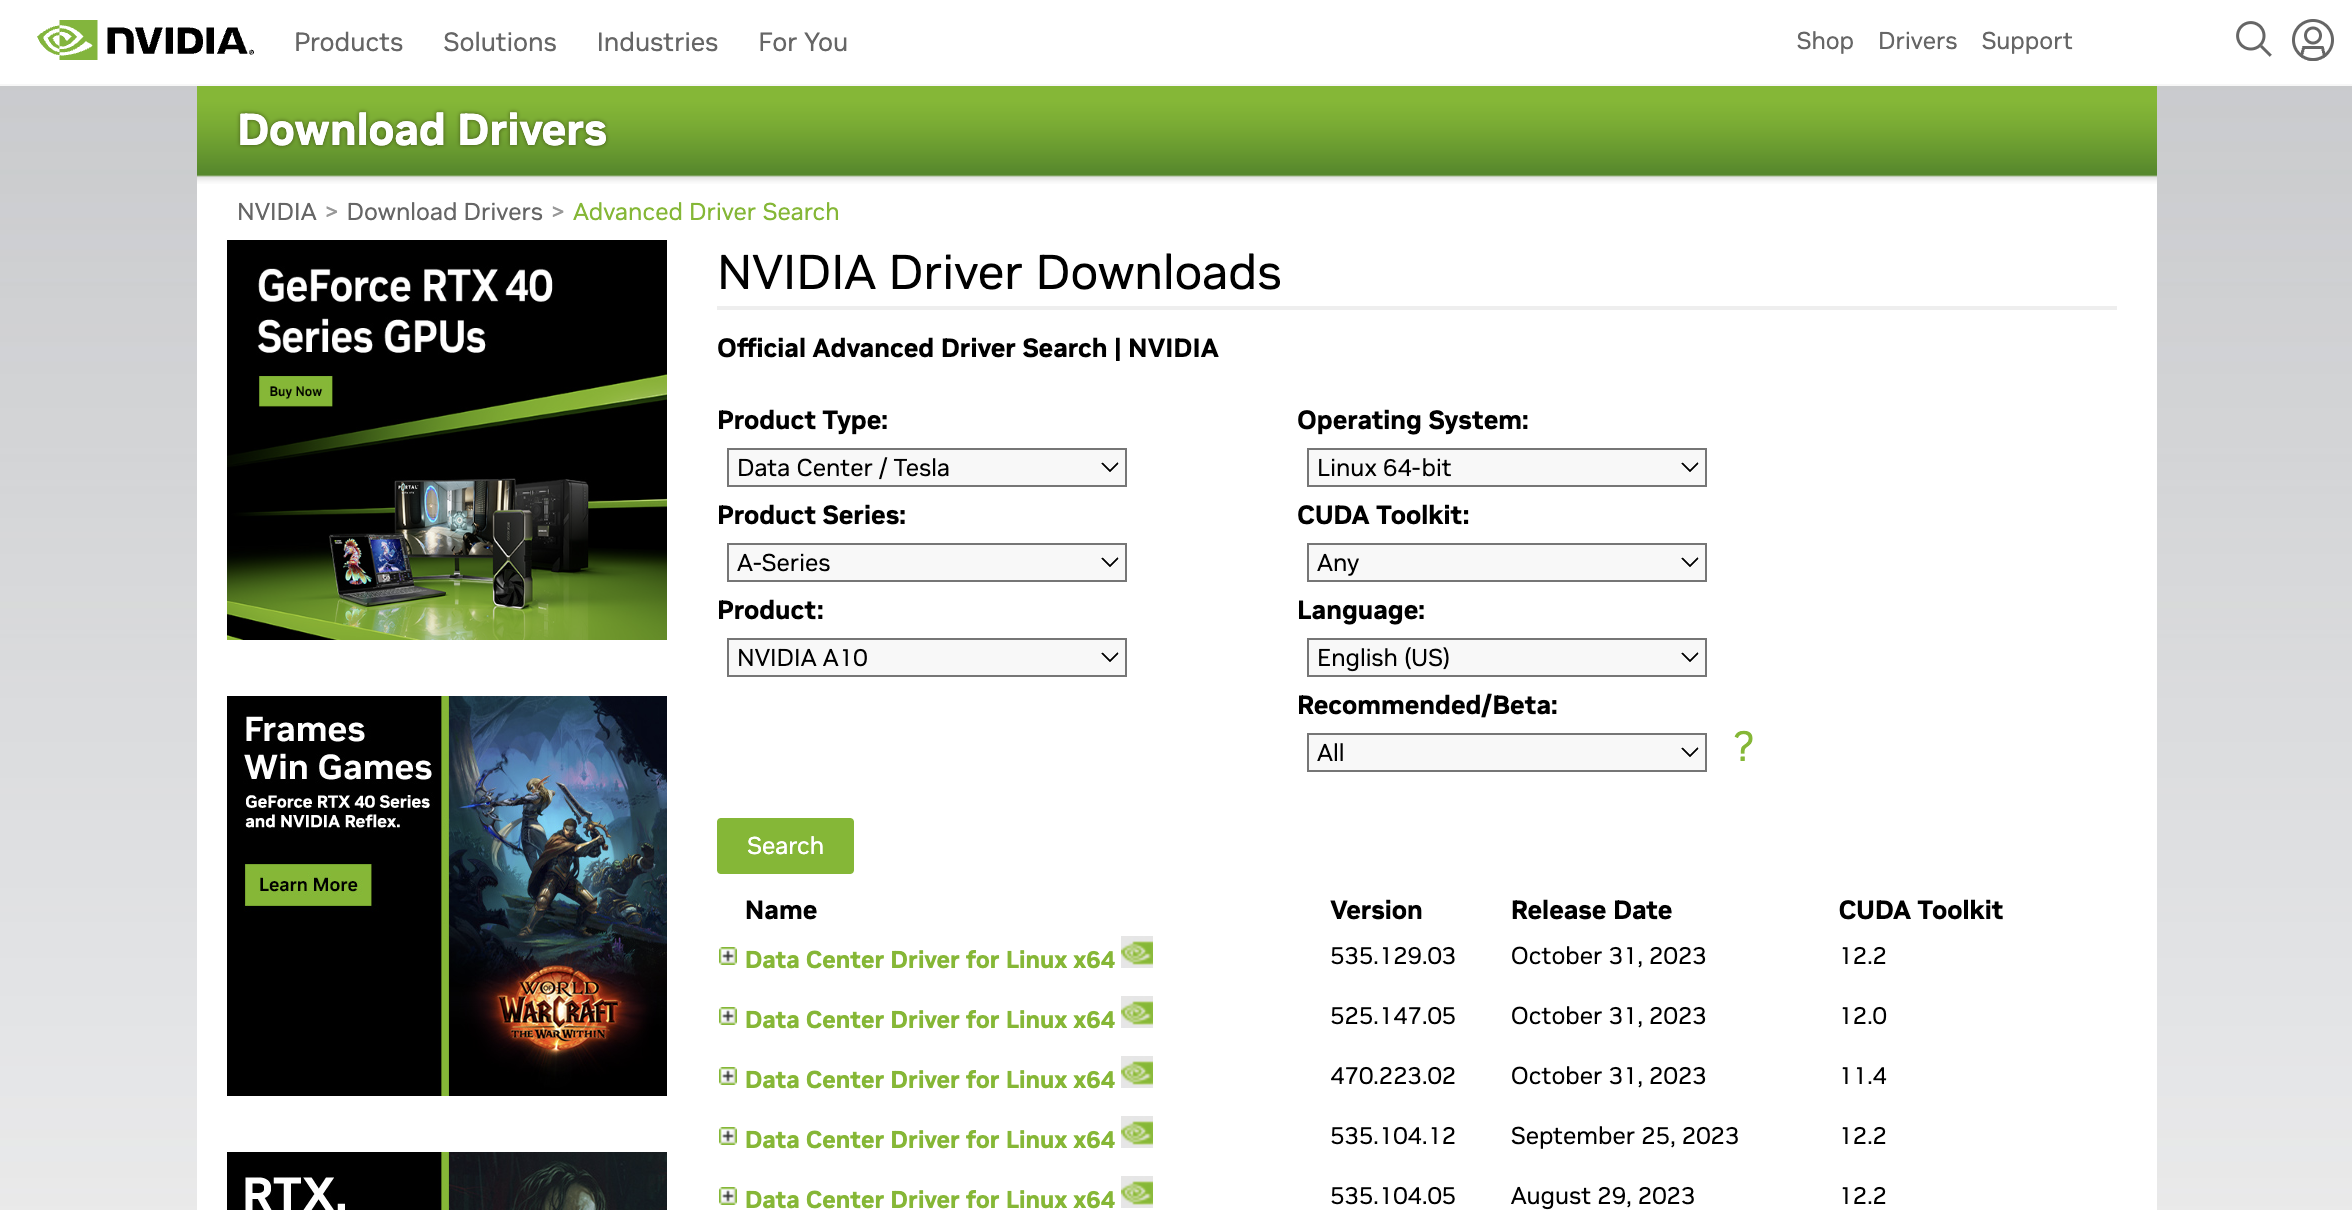
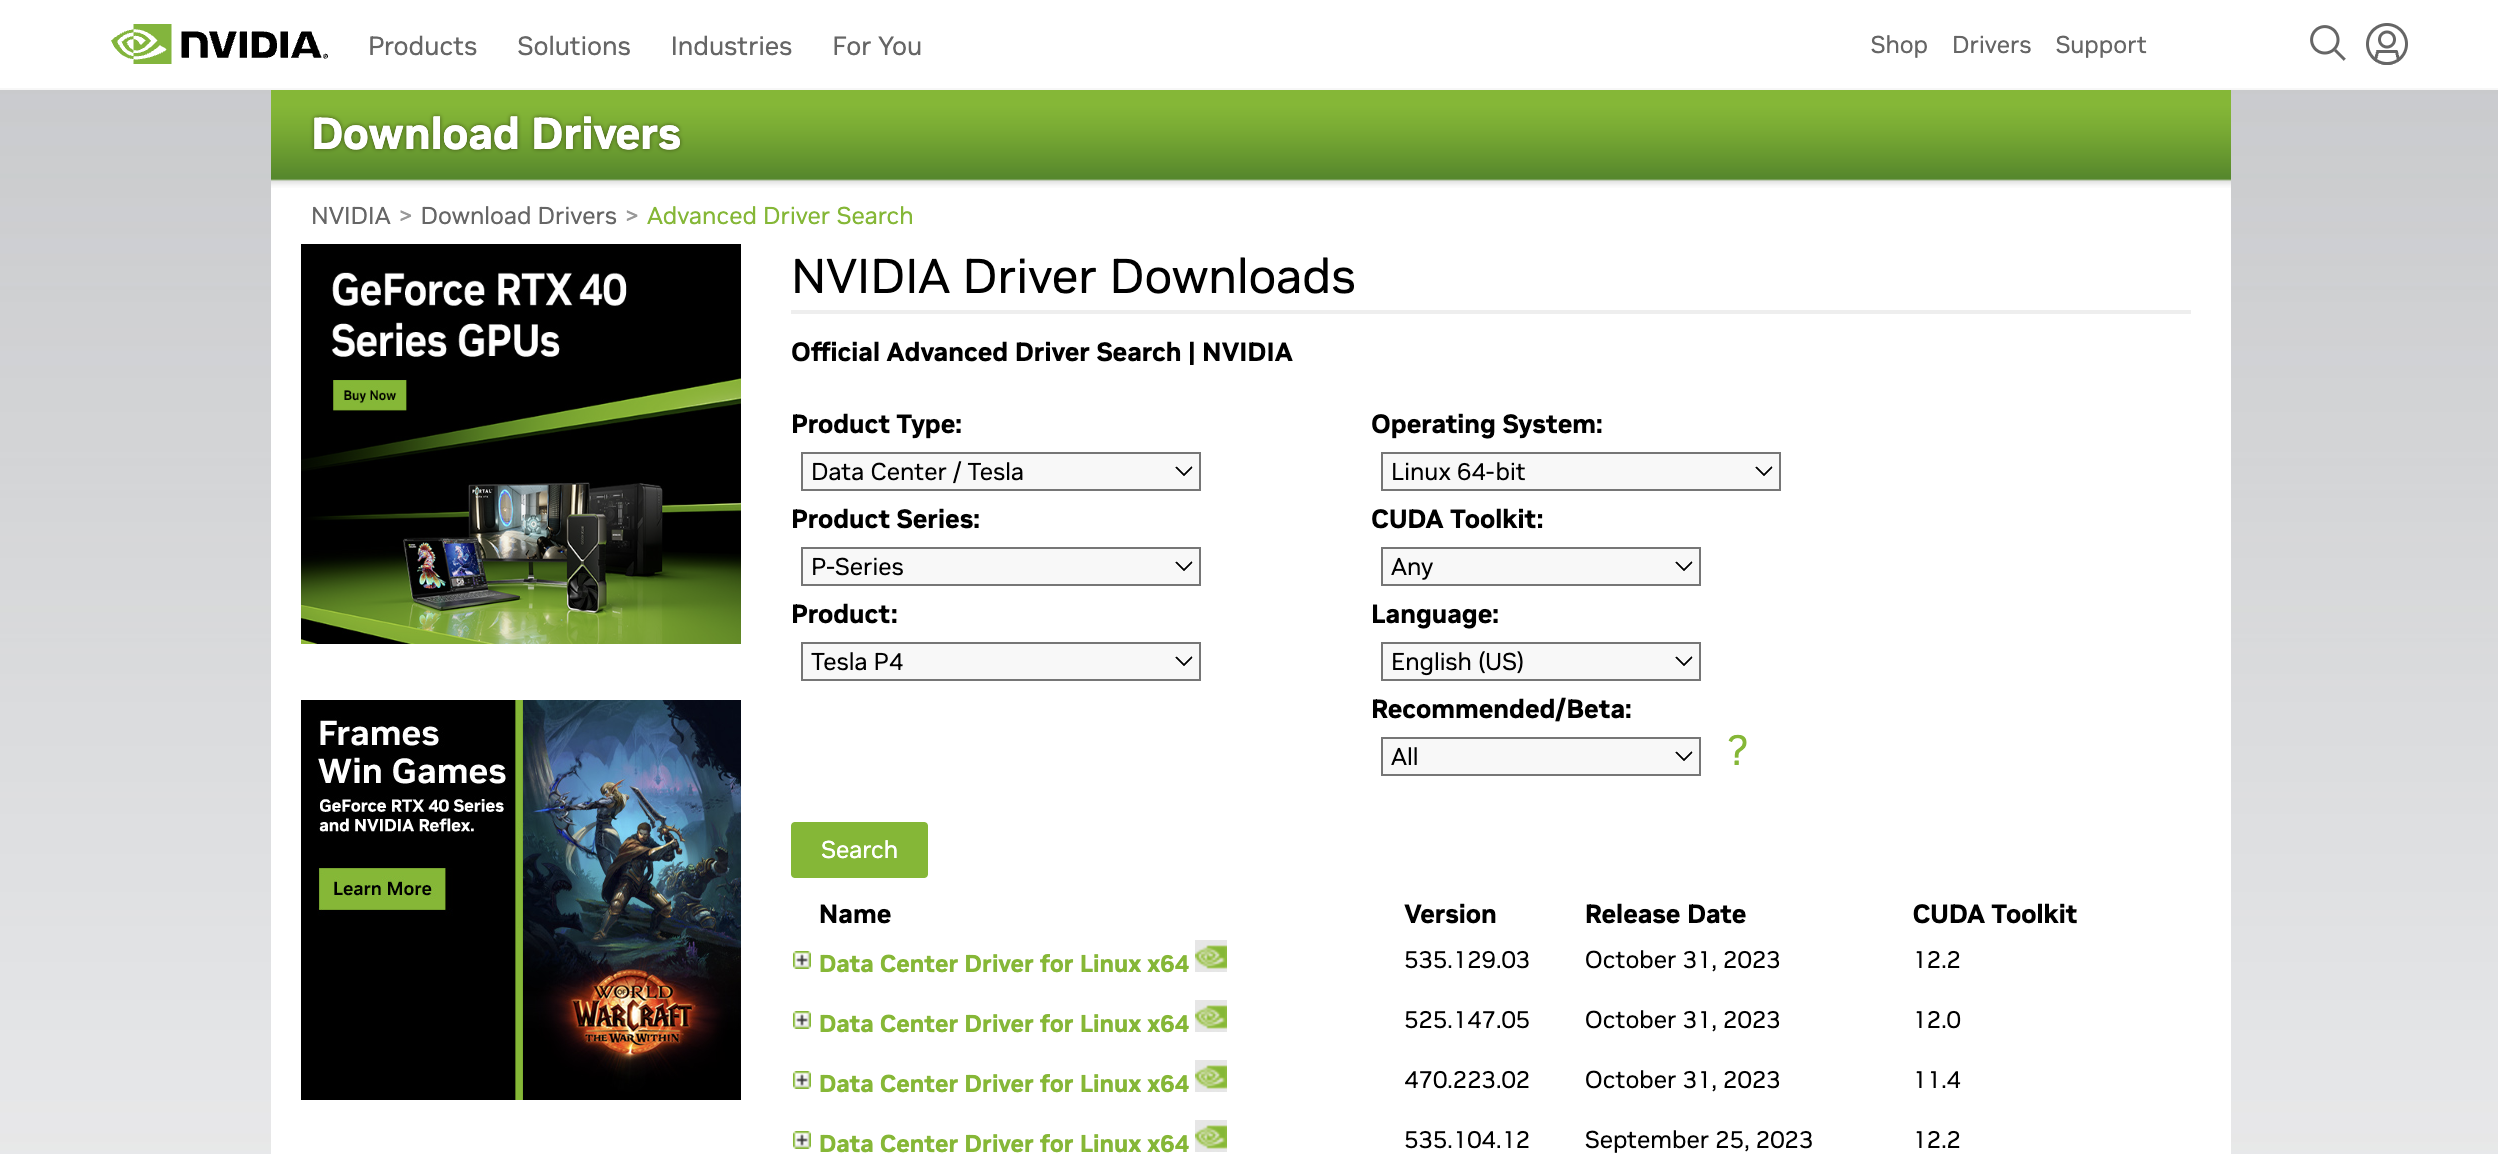
[WEEK049] Installing the NVIDIA driver and CUDA

diff --git a/notes/week049-scheduling-gpus-in-kubernetes/README.md b/notes/week049-scheduling-gpus-in-kubernetes/README.md
@@ -10,7 +10,17 @@
 
 ![](./images/aliyun-ecs.png)
 
-于是便抱着试一试的态度下了一单，然后开始了下面的实验。
+于是便抱着试一试的态度下了一单，然后开始了下面的实验。但是刚开始就遇到了问题，安装 NVIDIA 驱动的时候一直报 `Unable to load the kernel module 'nvidia.ko'` 这样的错误:
+
+![](./images/nvidia-driver-error.png)
+
+在网上搜了很多解决方案都没有解决，最后才在阿里云的产品文档中找到了答案：阿里云的 GPU 产品有 **计算型** 和 **虚拟化型** 两种实例规格族，[可以从它们的命名上进行区分](https://help.aliyun.com/zh/egs/instance-naming-conventions)，比如上面我买的这个实例规格为 `ecs.sgn7i-vws-m2s.xlarge`，其中 `sgn` 表示这是一台采用 NVIDIA GRID vGPU 加速的共享型实例，它和 `vgn` 一样，都属于虚拟化型，使用了 [NVIDIA GRID 虚拟 GPU 技术](https://www.nvidia.cn/design-visualization/technologies/grid-technology/)，所以需要安装 GRID 驱动，具体步骤可以 [参考这里](https://help.aliyun.com/zh/egs/user-guide/install-a-grid-driver/)；如果希望手工安装 NVIDIA 驱动，我们需要购买计算型的 GPU 实例。
+
+> 阿里云的产品文档中有一篇 [NVIDIA 驱动安装指引](https://help.aliyun.com/zh/egs/user-guide/installation-guideline-for-nvidia-drivers)，我觉得整理的挺好，文档中对不同的规格、不同的使用场景、不同的操作系统都做了比较详情的介绍。
+
+于是我重新下单，又买了一台规格为 `ecs.gn5i-c2g1.large` 的 **计算型 GPU 实例**，2 核 CPU，8G 内存，显卡为 NVIDIA P4，显存 8G，价格一个小时八块多。
+
+> 购买计算型实例纯粹是为了体验一下 NVIDIA 驱动的安装过程，如果只想进行后面的 Kubernetes 实验，直接使用虚拟化型实例也是可以的。另外，在购买计算型实例时可以选择自动安装 NVIDIA 驱动，对应版本的 CUDA 和 CUDNN 也会一并安装，使用还是很方便的。
 
 ### 安装 NVIDIA 驱动
 
@@ -18,16 +28,88 @@
 
 ```
 # lspci | grep NVIDIA
-00:07.0 VGA compatible controller: NVIDIA Corporation Device 2236 (rev a1)
+00:07.0 3D controller: NVIDIA Corporation GP104GL [Tesla P4] (rev a1)
 ```
 
-此时这个显卡还不能直接使用，我们还需要安装 NVIDIA 的显卡驱动。访问 [NVIDIA Driver Downloads](https://www.nvidia.com/Download/Find.aspx)，在这里找到你的显卡型号并下载：
+此时这个显卡还不能直接使用，因为还需要安装 NVIDIA 的显卡驱动。访问 [NVIDIA Driver Downloads](https://www.nvidia.com/Download/Find.aspx)，在这里选择你的显卡型号和操作系统并搜索：
 
 ![](./images/nvidia-driver-download.png)
 
-### 安装 CUDA 驱动
+从列表中可以看到驱动的不同版本，第一条是最新版本 `535.129.03`，我们点击链接进入下载页面并复制链接地址，然后使用下面的命令下载之：
 
-https://developer.nvidia.com/cuda-toolkit-archive
+```
+# curl -LO https://us.download.nvidia.com/tesla/535.129.03/NVIDIA-Linux-x86_64-535.129.03.run
+```
+
+这个文件其实是一个可执行文件，直接运行即可：
+
+```
+# sh NVIDIA-Linux-x86_64-535.129.03.run
+```
+
+安装过程中会出现一些选项，保持默认即可，等待驱动安装成功后，运行 `nvidia-smi` 命令应该能看到显卡状态：
+
+```
+# nvidia-smi
+Thu Nov 24 08:16:38 2023       
++---------------------------------------------------------------------------------------+
+| NVIDIA-SMI 535.129.03             Driver Version: 535.129.03   CUDA Version: 12.2     |
+|-----------------------------------------+----------------------+----------------------+
+| GPU  Name                 Persistence-M | Bus-Id        Disp.A | Volatile Uncorr. ECC |
+| Fan  Temp   Perf          Pwr:Usage/Cap |         Memory-Usage | GPU-Util  Compute M. |
+|                                         |                      |               MIG M. |
+|=========================================+======================+======================|
+|   0  Tesla P4                       Off | 00000000:00:07.0 Off |                    0 |
+| N/A   41C    P0              23W /  75W |      0MiB /  7680MiB |      2%      Default |
+|                                         |                      |                  N/A |
++-----------------------------------------+----------------------+----------------------+
+                                                                                         
++---------------------------------------------------------------------------------------+
+| Processes:                                                                            |
+|  GPU   GI   CI        PID   Type   Process name                            GPU Memory |
+|        ID   ID                                                             Usage      |
+|=======================================================================================|
+|  No running processes found                                                           |
++---------------------------------------------------------------------------------------+
+```
+
+### 安装 CUDA
+
+[CUDA](https://docs.nvidia.com/cuda/cuda-toolkit-release-notes/index.html) 是 NVIDIA 推出的一种通用并行计算平台和编程模型，允许开发人员使用 C、C++ 等编程语言编写高性能计算应用程序，它利用 GPU 的并行计算能力解决复杂的计算问题，特别是在深度学习、科学计算、图形处理等领域。所以一般情况下，安装完 NVIDIA 驱动后，CUDA 也可以一并安装上。
+
+在下载 NVIDIA 驱动时，每个驱动版本都对应了一个 CUDA 版本，比如上面我们在下载驱动版本 `535.129.03` 时可以看到，它对应的 CUDA 版本为 `12.2`，所以我们就按照这个版本号来安装。首先进入 [CUDA Toolkit Archive](https://developer.nvidia.com/cuda-toolkit-archive) 页面，这里列出了所有的 CUDA 版本：
+
+![](./images/cuda-download.png)
+
+找到 `12.2` 版本进入下载页面：
+
+![](./images/cuda-download-2.png)
+
+选择操作系统、架构、发行版本和安装类型，下面就会出现相应的下载地址和运行命令，按照提示在服务器中执行即可：
+
+```
+# wget https://developer.download.nvidia.com/compute/cuda/12.2.2/local_installers/cuda_12.2.2_535.104.05_linux.run
+# sh cuda_12.2.2_535.104.05_linux.run
+```
+
+这个安装过程会比较长，当安装成功后，可以看到下面这样的信息：
+
+```
+===========
+= Summary =
+===========
+
+Driver:   Installed
+Toolkit:  Installed in /usr/local/cuda-12.2/
+
+Please make sure that
+ -   PATH includes /usr/local/cuda-12.2/bin
+ -   LD_LIBRARY_PATH includes /usr/local/cuda-12.2/lib64, or, add /usr/local/cuda-12.2/lib64 to /etc/ld.so.conf and run ldconfig as root
+
+To uninstall the CUDA Toolkit, run cuda-uninstaller in /usr/local/cuda-12.2/bin
+To uninstall the NVIDIA Driver, run nvidia-uninstall
+Logfile is /var/log/cuda-installer.log
+```
 
 ## 在 Docker 容器中使用 GPU 资源
 

diff --git a/library/云原生.md b/library/云原生.md
@@ -68,10 +68,12 @@
 
 * [sealos](https://github.com/labring/sealos)
 * [easzlab/kubeasz](https://github.com/easzlab/kubeasz) - 使用Ansible脚本安装K8S集群
-* [kubernetes-sigs/kubespray](https://github.com/kubernetes-sigs/kubespray) - Deploy a Production Ready Kubernetes Cluster
+* [Kubespray](https://kubespray.io/) - Deploy a Production Ready Kubernetes Cluster
+	* [kubernetes-sigs/kubespray](https://github.com/kubernetes-sigs/kubespray)
 * [K8E - Simple Kubernetes Distribution](https://getk8e.com/)
 * [kubesphere/kubekey](https://github.com/kubesphere/kubekey) - Install Kubernetes/K3s only, both Kubernetes/K3s and KubeSphere, and related cloud-native add-ons, it supports all-in-one, multi-node, and HA
 * [Kuboard Spray](https://kuboard-spray.cn/)
+* [kOps](https://github.com/kubernetes/kops) - Production Grade k8s Installation, Upgrades and Management
 
 ### 管理平台
 
@@ -94,6 +96,8 @@
 
 ### 多云控制平面
 
+* [Cluster API](https://github.com/kubernetes-sigs/cluster-api) - a Kubernetes subproject focused on providing declarative APIs and tooling to simplify provisioning, upgrading, and operating multiple Kubernetes clusters.
+	* [The Cluster API Book](https://cluster-api.sigs.k8s.io)
 * [Clusternet](https://github.com/clusternet/clusternet) - Managing your Kubernetes clusters (including public, private, edge, etc.) as easily as visiting the Internet
 * [Clusterpedia](https://github.com/clusterpedia-io/clusterpedia) - The Encyclopedia of Kubernetes clusters
 * [Crossplane](https://www.crossplane.io/) - Cloud Native Control Planes

diff --git a/library/机器学习.md b/library/机器学习.md
@@ -6,7 +6,6 @@
 * [moyix/fauxpilot](https://github.com/moyix/fauxpilot) - FauxPilot - an open-source GitHub Copilot server
 * [facebookresearch/fairseq](https://github.com/facebookresearch/fairseq) - Facebook AI Research Sequence-to-Sequence Toolkit written in Python.
 * [allenai/visprog](https://github.com/allenai/visprog) - Visual Programming: Compositional visual reasoning without training
-* [dmlc/xgboost](https://github.com/dmlc/xgboost) - Scalable, Portable and Distributed Gradient Boosting (GBDT, GBRT or GBM) Library, for Python, R, Java, Scala, C++ and more. Runs on single machine, Hadoop, Spark, Flink and DataFlow https://xgboost.ai/
 
 ## 在线书籍
 
@@ -162,6 +161,12 @@
 
 * [scikit-learn (sklearn) 官方文档中文版](https://sklearn.apachecn.org/#/)
 * [An introduction to machine learning with scikit-learn](https://scikit-learn.org/stable/tutorial/basic/tutorial.html)
+
+## 机器学习算法
+
+* [XGBoost](https://xgboost.ai/) - Scalable and Flexible Gradient Boosting
+  * [dmlc/xgboost](https://github.com/dmlc/xgboost) - Scalable, Portable and Distributed Gradient Boosting (GBDT, GBRT or GBM) Library, for Python, R, Java, Scala, C++ and more. Runs on single machine, Hadoop, Spark, Flink and DataFlow
+  * [XGBoost Documentation](https://xgboost.readthedocs.io/en/stable/)
 
 ## 深度学习
 

diff --git a/library/运维技术.md b/library/运维技术.md
@@ -86,11 +86,13 @@
 * [ROOK](https://rook.io/)
 * [JuiceFS](https://github.com/juicedata/juicefs) - JuiceFS is a distributed POSIX file system built on top of Redis and S3.
 * [OpenZFS](https://openzfs.org/wiki/Main_Page)
+* [s3fs](https://github.com/s3fs-fuse/s3fs-fuse) - FUSE-based file system backed by Amazon S3
 
 ### 文章
 
 * [浅析三款大规模分布式文件系统架构设计](https://www.infoq.cn/article/J3ulcioRIXNfR0HDtZjr)
 * [NFS双机热备高可用环境 - 运维笔记](https://cloud.tencent.com/developer/article/1751879)
+* [POSIX 真的不适合对象存储吗？](https://juicefs.com/zh-cn/blog/engineering/posix-object-store-suitable-file-system)
 
 ## 大数据
 

diff --git a/library/开发工具.md b/library/开发工具.md
@@ -255,6 +255,10 @@
   * [Aria2c 使用手札](https://medium.com/@evindu/aria2c-%E4%BD%BF%E7%94%A8%E6%89%8B%E6%9C%AD-d2b4fbc972b6)
 * [Doget](https://doget.nocsdn.com/) - Github release 下载，文件下载加速
 
+## 文件传输
+
+* [百灵快传（B0Pass）](https://github.com/bitepeng/b0pass) - 基于Go语言的高性能 "手机电脑超大文件传输神器"、"局域网共享文件服务器"
+
 ## 测试工具
 
 * [Apache JMeter](https://jmeter.apache.org/)
